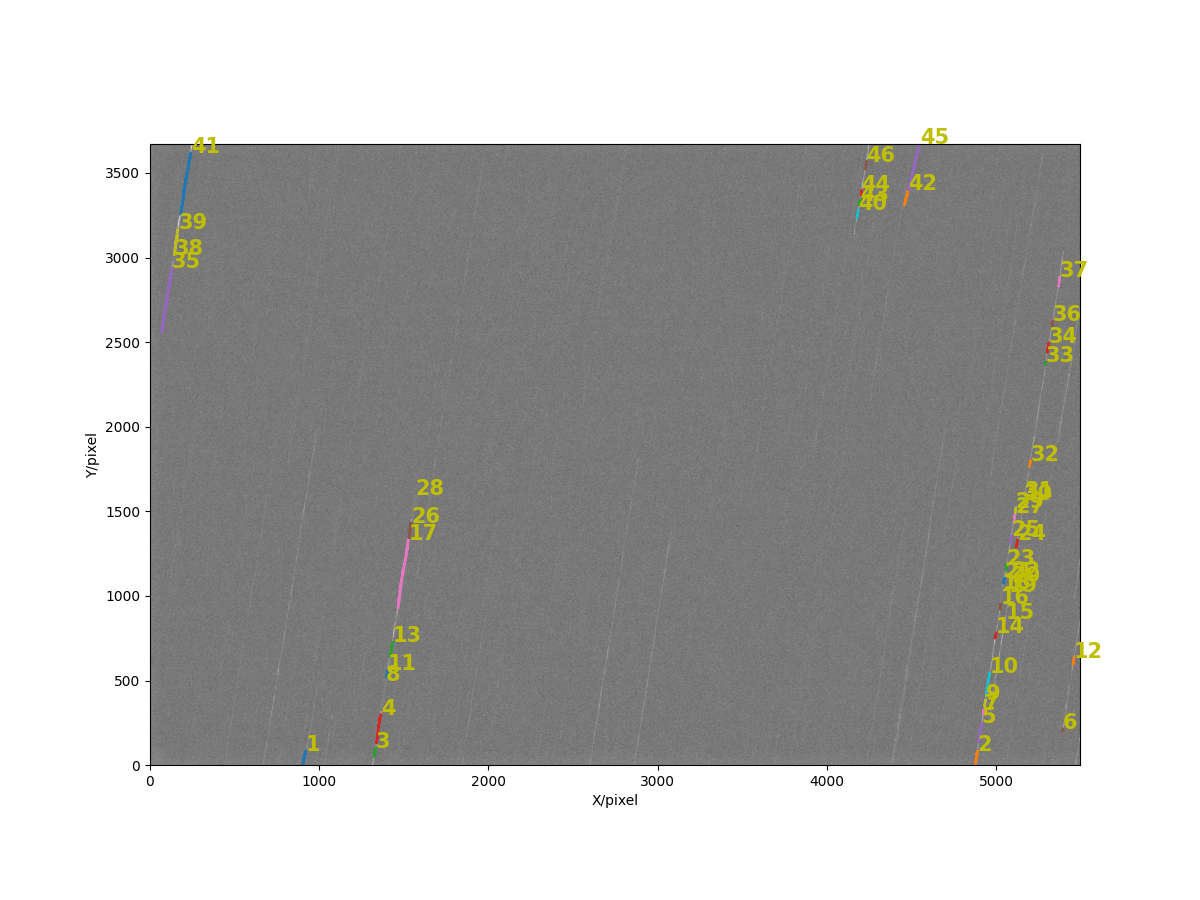
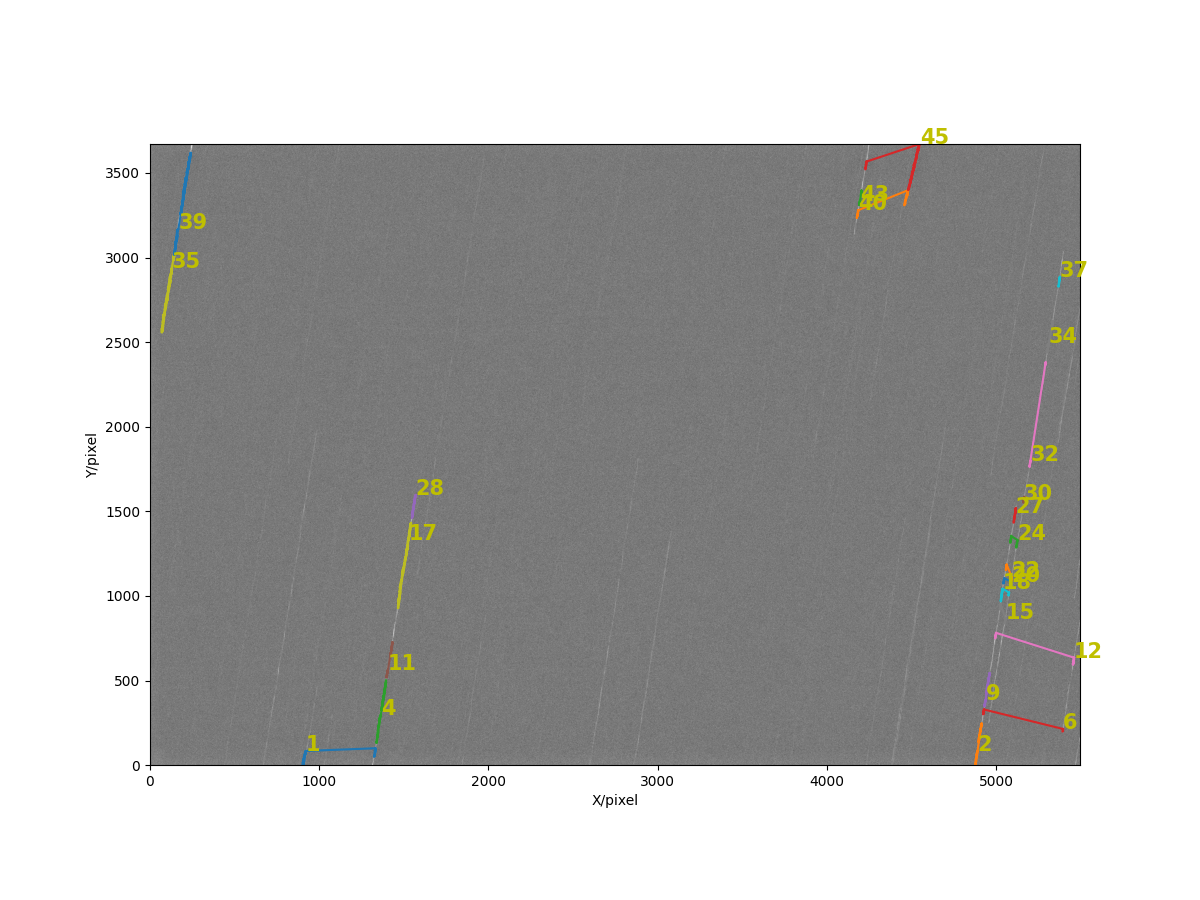
border merging improvements

diff --git a/astride/utils/edge3.py b/astride/utils/edge3.py
@@ -202,21 +202,6 @@ class EDGE:
         return distance <= proximity_threshold
 
     def merge_edges(self, edge1, edge2):
-        """
-        Merge two edges into one.
-
-        Parameters
-        ----------
-        edge1 : dict
-            Dictionary representing the first edge.
-        edge2 : dict
-            Dictionary representing the second edge.
-
-        Returns
-        -------
-        dict
-            Dictionary representing the merged edge.
-        """
         merged_edge = {
             'index': edge1['index'],
             'x': np.concatenate((edge1['x'], edge2['x'])),
@@ -229,11 +214,12 @@ class EDGE:
             'connectivity': -1,
             'x_min': 0., 'x_max': 0.,
             'y_min': 0., 'y_max': 0.,
-            'box_plotted': False
+            'box_plotted': False,
+            'slope_angle': 0.  # Initialize slope_angle
         }
         return merged_edge
 
-    def connect_edges(self, proximity_threshold=1000):
+    def connect_edges(self, proximity_threshold=10):
         """Connect detected edges based on their slopes."""
         # Fitting a straight line to each edge.
         p0 = [0., 0.]

diff --git a/astride/utils/edge.py b/astride/utils/edge.py
@@ -228,8 +228,6 @@ class EDGE:
                                    (self.edges[i]['x_center'] -
                                     self.edges[j]['x_center'])
                     c_slope_angle = np.arctan(c_slope) * radian2angle
-                    # Debugging
-                    print(f"Edge {i,j}: c_slope={c_slope}, c_slope_ang={c_slope_angle}") 
 
                     if np.abs(c_slope_angle - self.edges[i]['slope_angle']) <= \
                        self.connectivity_angle and \
